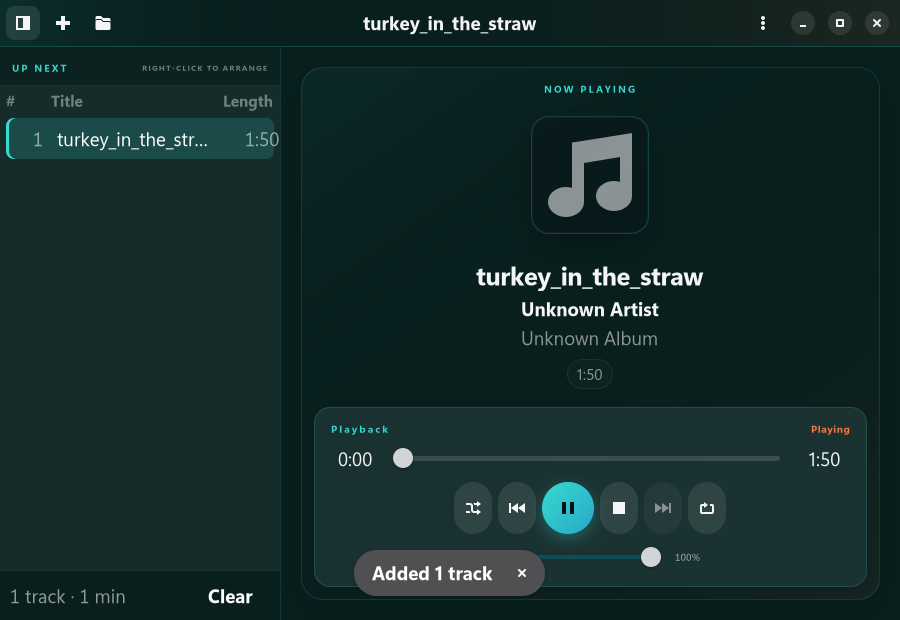
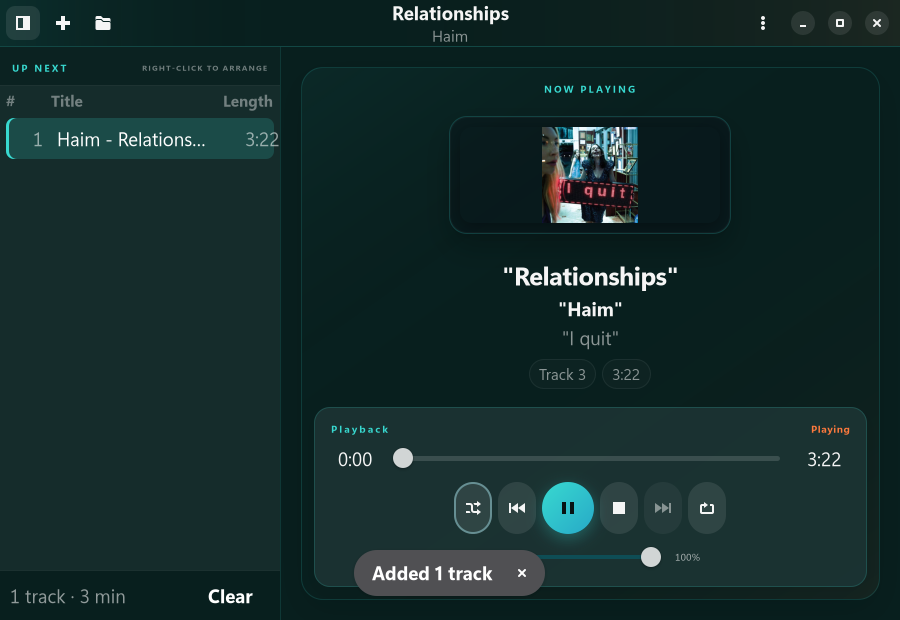
Update playing screenshot with Haim

diff --git a/spec/loamp/ui/main_window_spec.rb b/spec/loamp/ui/main_window_spec.rb
@@ -342,15 +342,17 @@ RSpec.describe Loamp::UI::MainWindow do
   describe 'file dialog functionality' do
     it 'adds real Gio file selections and captures the resulting window' do
       files = Gio::ListStore.new(Gio::File.gtype)
-      files.append(Gio::File.new_for_path(AudioFixtures.sample_mp3))
+      files.append(Gio::File.new_for_path(AudioFixtures.sample_mp3_with_tags))
       main_window.present
 
       expect { main_window.send(:add_files, files) }.to change(playlist, :size).from(0).to(1)
       engine.wait_for_state(:playing, timeout: 5)
       settle_gtk
 
-      expect(playlist.current_track.file_path).to eq(AudioFixtures.sample_mp3)
-      expect(capture_widget(main_window, 'main-window-file-added')).to end_with('.png')
+      expect(playlist.current_track.file_path).to eq(AudioFixtures.sample_mp3_with_tags)
+      expect(playlist.current_track.title).to eq('Relationships')
+      expect(playlist.current_track.artist).to eq('Haim')
+      expect(capture_widget(main_window, 'main-window-playing')).to end_with('.png')
     end
 
     it 'autoplays when the first tracks land on an empty idle queue' do

diff --git a/README.md b/README.md
@@ -7,7 +7,7 @@ A music player built with Ruby, GTK4 and libadwaita for Linux.
 
 ## Screenshot
 
-![LOAMP main window playing turkey_in_the_straw](assets/screenshots/main-window-playing.png)
+![LOAMP main window playing Relationships by Haim](assets/screenshots/main-window-playing.png)
 
 ## Features
 
